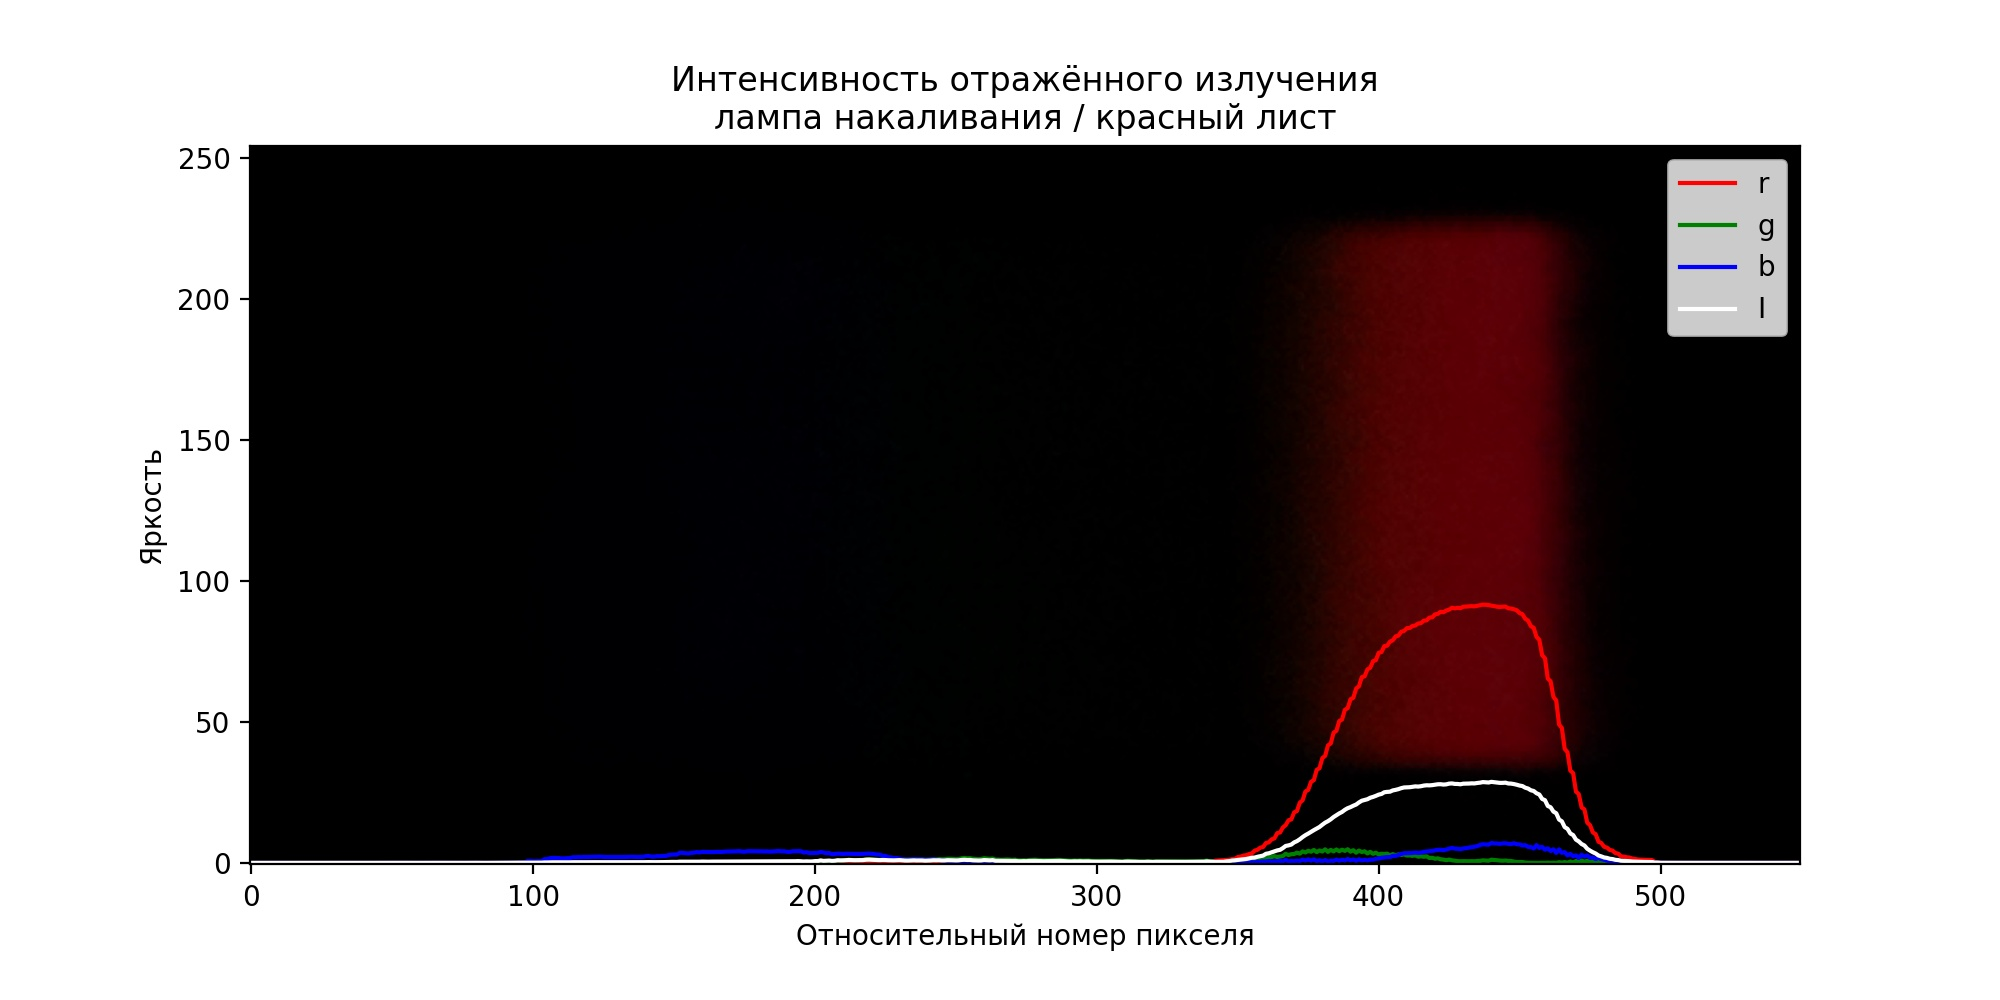
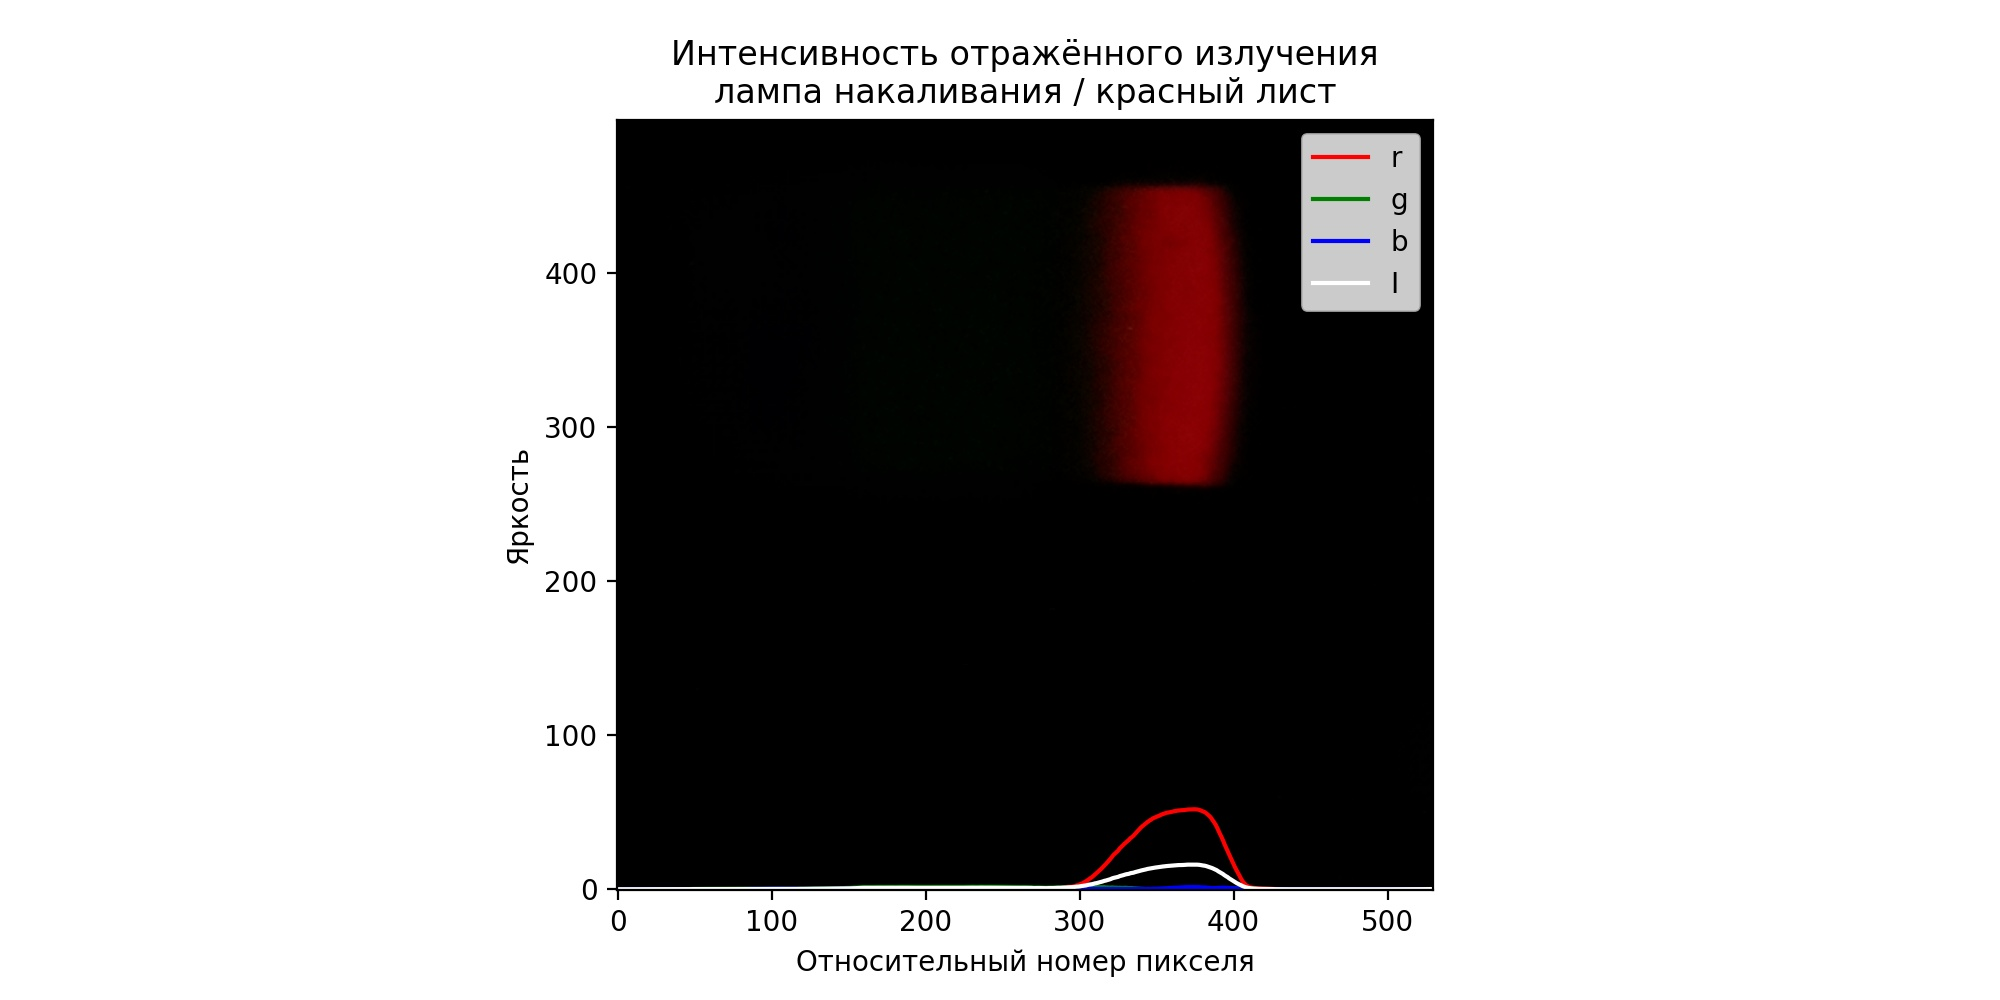
processing done

diff --git a/light/scripts/lightProcessing.py b/light/scripts/lightProcessing.py
@@ -2,47 +2,36 @@ import lightFunctions as func
 from matplotlib import pyplot as plt
 import numpy as np
 
-def data(names): #фуекция обработки названия файла для получения подписей графиков
-	name = names.split("-")
-	if (name[0] == 'blue'): surface = "синий лист"
-	if (name[0] == 'green'): surface = "зеленый лист"
-	if (name[0] == 'red'): surface = "красный лист"
-	if (name[0] == 'white'): surface = "белый лист"
-	if (name[0] == 'yellow'): surface = "желтый лист"
-	if (name[1] == 'tungsten.png'): lamp = "лампа накаливания"
-	if (name[1] == 'mercury.png'): lamp = "ртутная лампа"
-	return [lamp, surface]
-
-def graph(lumas, label, x, y, name, y_label):
-	fig, ax = plt.subplots(figsize=(11, 9), dpi=200)
+def graph(lumas, label, x1, x2, name, y_label):
+	fig, ax = plt.subplots(figsize=(11, 9), dpi=60)
 	colors = ['b','g','r','w','y']
-	lengh = np.linspace(x, y, len(lumas[5]))
+	lengh = np.linspace(x1, x2, len(lumas[5]))
 	for i in range(5):
-		plt.plot(lengh, lumas[i], alpha=1, label="first", lw=1.9, c=colors[i], mew=0.4, ms=0, mec = 'b')
+		plt.plot(lengh, lumas[i], lw=1.9, c=colors[i], mew=0.4, ms=0, mec = 'b')
 
 	plt.minorticks_on()
 	plt.grid(which='major', linewidth = 0.5, color = 'k')
 	plt.grid(which='minor', linestyle = '-')
 	ax.set_facecolor((0.85, 0.85, 0.85))
 
-	plt.axis([x - 5,y + 5,0,max(lumas[3])*1.05])
+	plt.axis([x1 - 5,x2 - 55,0,max(lumas[3])*1.05])
 	plt.legend(["синий лист", "зеленый лист", "красный лист", "белый лист", "желтый лист"])
 	plt.title(label, fontsize = 13)   
 	plt.ylabel(y_label, fontsize = 13)   
 	plt.xlabel('Длинна волны [нм]', fontsize = 13)   
 	plt.savefig(name)
 
-pics = ["blue-tungsten.png", "green-tungsten.png", "red-tungsten.png","white-tungsten.png", "yellow-tungsten.png", "white-mercury.png"]
+pics = ["blue-tungsten.jpg", "green-tungsten.jpg", "red-tungsten.jpg","white-tungsten.jpg", "yellow-tungsten.jpg", "white-mercury.jpg"]
 
 print("Считыываем данные и строим графики интенсивности отраженного излучения")
 lumas = []
 for name in pics:
-	luma = func.readIntensity(name, name.split(".")[0]+"-plot.jpeg", data(name))
+	luma = func.readIntensity(name, name.split(".")[0]+"-plot.jpeg", func.data(name))
 	lumas.append(luma)
 lumas = np.array(lumas)
-x, y = func.calibration(lumas[5])
-lumas[3] += 1
+x1, x2 = func.calibration(lumas[5])
+lumas[3] += 0.7
 
 # строим график зависимости
-graph(lumas, "Отраженная интенсивность\n излучения лампы накаливания", x, y, "intensites.png", 'Яркость')
-graph(lumas/lumas[3], "Альбедо поверхностей", x, y, "albedos.png", 'Альбедо')
+graph(lumas, "Отраженная интенсивность\n излучения лампы накаливания", x1, x2, "intensites.png", 'Яркость')
+graph(lumas/lumas[3], "Альбедо поверхностей", x1, x2, "albedos.png", 'Альбедо')

diff --git a/light/scripts/lightFunctions.py b/light/scripts/lightFunctions.py
@@ -5,13 +5,13 @@ from cycler import cycler
 
 def sign(num):
     return -1 if num < 0 else 1
-
+#2560 1440
 def readIntensity(photoName, plotName, data):
     lamp, surface = data
     photo = imageio.imread(photoName)
-    background = photo[480:1030, 1130:1385, 0:3].swapaxes(0, 1)
+    background = photo[510:1330, 870:1370, 0:3].swapaxes(0, 1)
     
-    cut = photo[480:1030, 1170:1350, 0:3].swapaxes(0, 1)
+    cut = photo[510:1330, 870:1370, 0:3].swapaxes(0, 1)
     rgb = np.mean(cut, axis=(0))
     
     luma = 0.2989 * rgb[:, 0] + 0.5866 * rgb[:, 1] + 0.1144 * rgb[:, 2]
@@ -36,11 +36,12 @@ def readIntensity(photoName, plotName, data):
 
 def calibration(luma_mercury_big):
     coef = 5
-    cor = len(luma_mercury_big)//coef + 1
+    cor = len(luma_mercury_big)//coef
     luma_mercury = np.array([0]*cor)
 
-    for i in range(550):
+    for i in range(len(luma_mercury_big)):
         luma_mercury[i//coef] += luma_mercury_big[i]
+
     derivative = luma_mercury[1:] - luma_mercury[:-1]
 
     measured_max = []
@@ -48,8 +49,23 @@ def calibration(luma_mercury_big):
         if (sign(derivative[i]) == sign(-derivative[i-1])) and (derivative[i] != 0 and derivative[i-1] != 0):
             measured_max.append(i)
     measured_max = np.array(measured_max)*coef
+    print (measured_max)
     real_max = [404.6563, 435.8328, 546.0735, 578.2] #данные с википедии
-    k = (real_max[3] - real_max[0])/(measured_max[10] - measured_max[0])
-    return [int(real_max[0] - measured_max[0]*k), int((len(luma_mercury_big) - measured_max[0])*k + real_max[0])]
+    k = (578.2 - 404.6563)/(measured_max[4] - measured_max[0])
+
+    print(measured_max)
+
+    return [int(404.6563 - measured_max[0]*k), int((len(luma_mercury_big) - measured_max[0])*k + 404.6563)]
+
+def data(names): #фуекция обработки названия файла для получения подписей графиков
+    name = names.split("-")
+    if (name[0] == 'blue'): surface = "синий лист"
+    if (name[0] == 'green'): surface = "зеленый лист"
+    if (name[0] == 'red'): surface = "красный лист"
+    if (name[0] == 'white'): surface = "белый лист"
+    if (name[0] == 'yellow'): surface = "желтый лист"
+    if (name[1] == 'tungsten.jpg'): lamp = "лампа накаливания"
+    if (name[1] == 'mercury.jpg'): lamp = "ртутная лампа"
+    return [lamp, surface]
 
 def nice(): print("Nice") #функция которая выводит Nice
